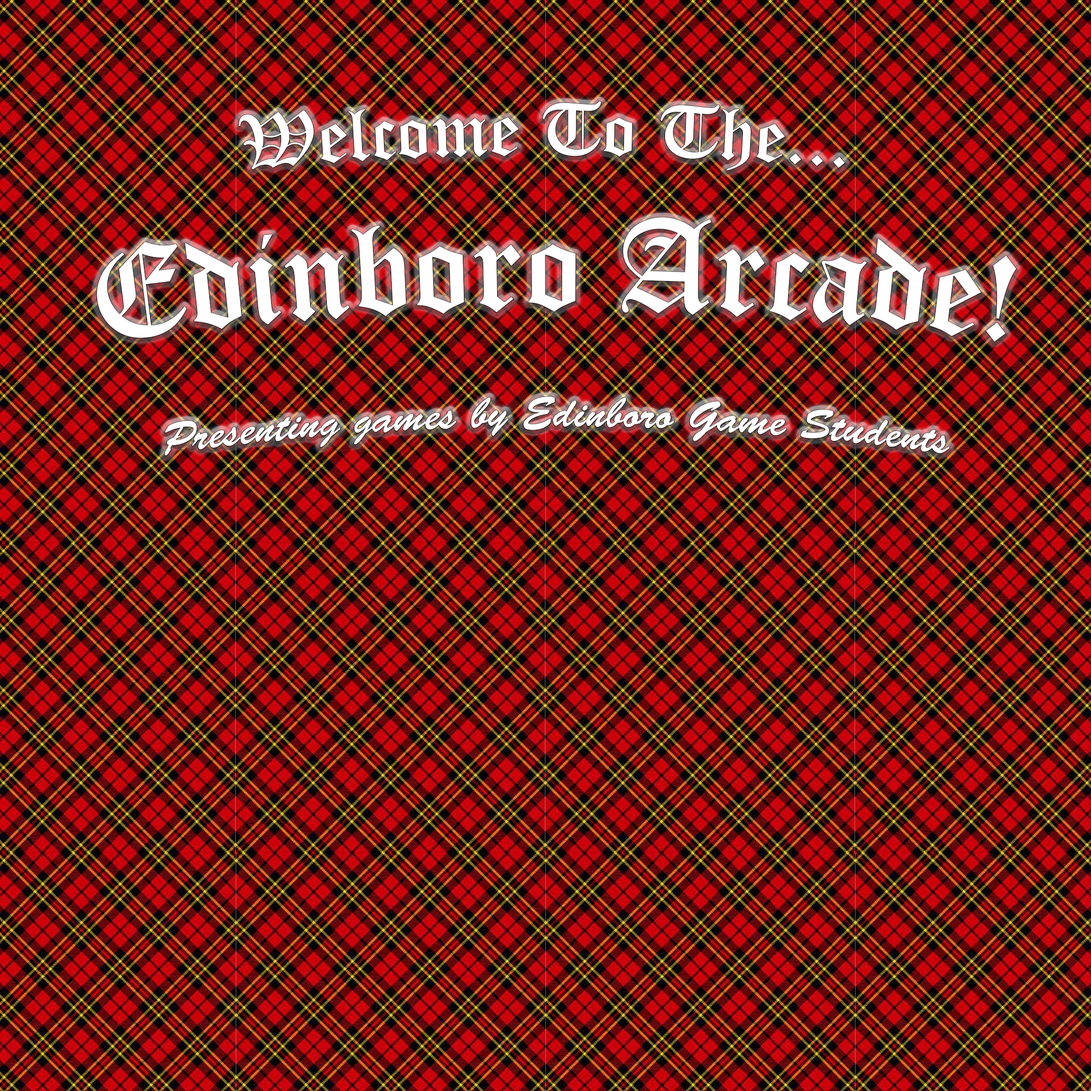
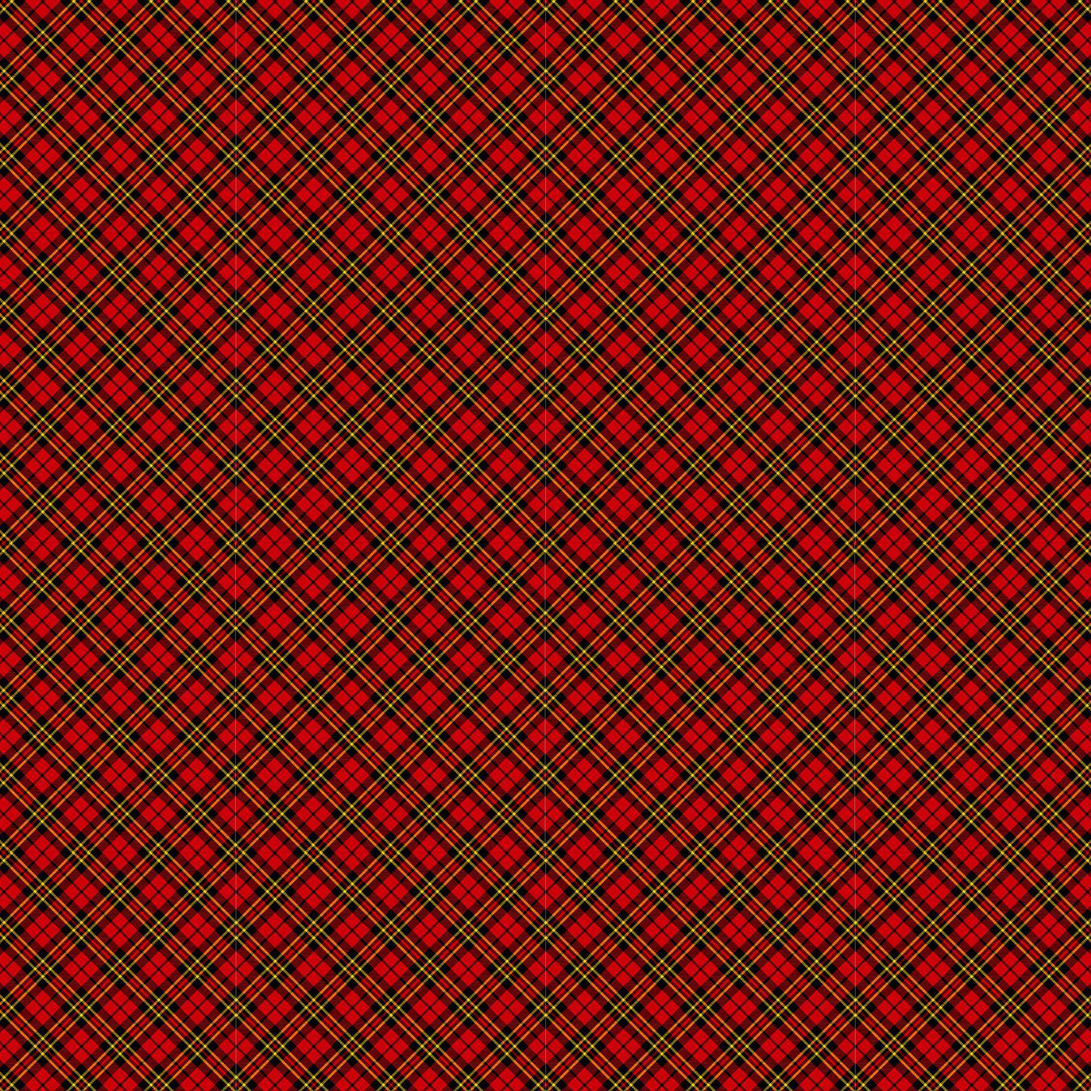
Continued work on menu animation

Changed region(s): [[0.0619, 0.1857, 0.9286, 0.3405], [0.1238, 0.3405, 0.8976, 0.4333], [0.2167, 0.0619, 0.7738, 0.1857]]

diff --git a/mainMenu.py b/mainMenu.py
@@ -4,14 +4,27 @@ from random import randrange
 import time
 pygame.init()
 
+'''
+class FontClass:
+	def __init__(self, font, x, y):
+'''
+		
+
 class MainMenu:
 	def __init__(self, screen, font):
 		self.background = "C:/Users/r813486a/Documents/ArcadeGameLauncher/MenuGraphics/arcadetitle.png"
 		self.screen = screen
 		self.width, self.height = pygame.display.get_surface().get_size()
+		
 		self.font = font
 		self.text = self.font.render("Welcome to the... Edinboro Arcade!", True, (255, 255, 255))
-
+		self.fontX = (self.width - self.text.get_width()) // 2
+		self.fontY = (self.height - self.text.get_height()) // 2
+		self.fontUp = True
+		self.fontSet = False
+		self.fontArrived = False
+		self.fontDestination = 0
+		
 	'''
 	// Precise method, which guarantees v = v1 when t = 1.
 	float lerp(float v0, float v1, float t) {
@@ -19,7 +32,12 @@ class MainMenu:
 	}
 	'''
 	def Learp(self, v1, v2, t):
+		print("""Inside learp.
+		v1 is: %s
+		v2 is: %s
+		t is: %s""" %(v1, v2, t))
 		pos = (1 - t) * v1 + t * v2
+		print("pos is: %s" %pos)
 		
 		return pos
 		
@@ -68,29 +86,38 @@ if __name__ == '__main__':
     pg.quit()
 	'''
 	def Move(self):
-		arrived = True
-		
-		if arrived == True:
-			changeX = randrange(self.width // 2)
-			changeY = randrange(self.height // 2)
-			if randrange(10) > 4:
-				changeX = changeX * -1
-			else:
-				changeY = changeY * -1
-			arrived = False
+		if self.fontUp == True and self.fontSet == False:
+			self.fontDestination = self.fontY - 10
+			self.fontSet = True
+			self.fontArrived = False
+		elif self.fontSet == False:
+			self.fontDestination = self.fontY + 10
+			self.fontSet = True
+			self.fontArrived = False
 			
-		while not arrived:
-			self.screen.fill((0,0,0))
-			self.screen.blit(self.text,
-			((self.width - self.text.get_width() + changeX) // 2, 
-			(self.height - self.text.get_height() + changeY) // 2))
+		if not self.fontArrived:
+			self.menu = pygame.transform.scale(pygame.image.load(self.background).convert_alpha(), (1400, 1024))
+			self.menuRect = self.menu.get_rect()
+			self.screen.blit(self.menu, self.menuRect)
+			
+			self.fontY = self.fontY + self.Learp(self.fontY, self.fontDestination, abs(self.fontDestination - self.fontY))
+			print(self.fontY)
+			
+			self.screen.blit(self.text, (self.fontX, self.fontY))
 			pygame.display.flip()
 			
+			
+			if self.fontY == self.fontDestination:
+				self.fontArrived = True
+				self.fontUp = False
+				self.fontSet = False
 		
 	def Draw(self):
-		self.screen.fill((0,0,0))
-		self.screen.blit(self.text,
-        ((self.width - self.text.get_width()) // 2, (self.height - self.text.get_height()) // 2))
+		#self.screen.fill((0,0,0))
+		self.menu = pygame.transform.scale(pygame.image.load(self.background).convert_alpha(), (1400, 1024))
+		self.menuRect = self.menu.get_rect()
+		self.screen.blit(self.menu, self.menuRect)
+		self.screen.blit(self.text, (self.fontX, self.fontY))
 		'''
 		self.menu = pygame.transform.scale(pygame.image.load(self.background).convert_alpha(), (1400, 1024))
 		self.menuRect = self.menu.get_rect()

diff --git a/mainMenuTest.py b/mainMenuTest.py
@@ -17,10 +17,18 @@ menu = MainMenu(pygame.display.set_mode((0, 0), pygame.FULLSCREEN),
 		pygame.font.Font("C:/Windows/Fonts/OLDENGL.ttf", 50))
 
 
-menu.Draw()
+#menu.Draw()
 
-while True:
-	menu.Move()
+start = 0
+end = 10
+
+while start < end:
+	#menu.Move()
+	print(start)
+	print("\n\n\n\n")
+	start = menu.Learp(start, end, start)
+	print(start)
+	print("\n\n\n\n")
 
 	'''
 	time.sleep(5)
